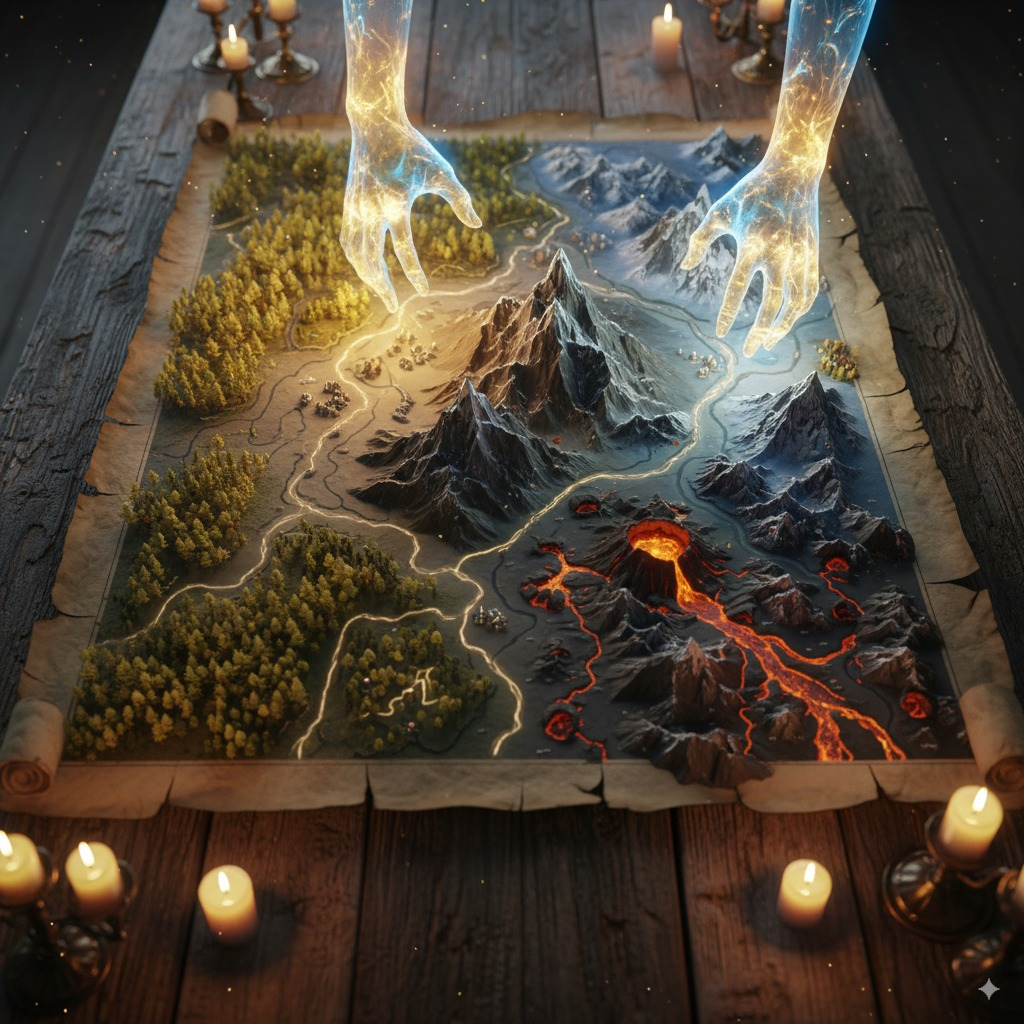
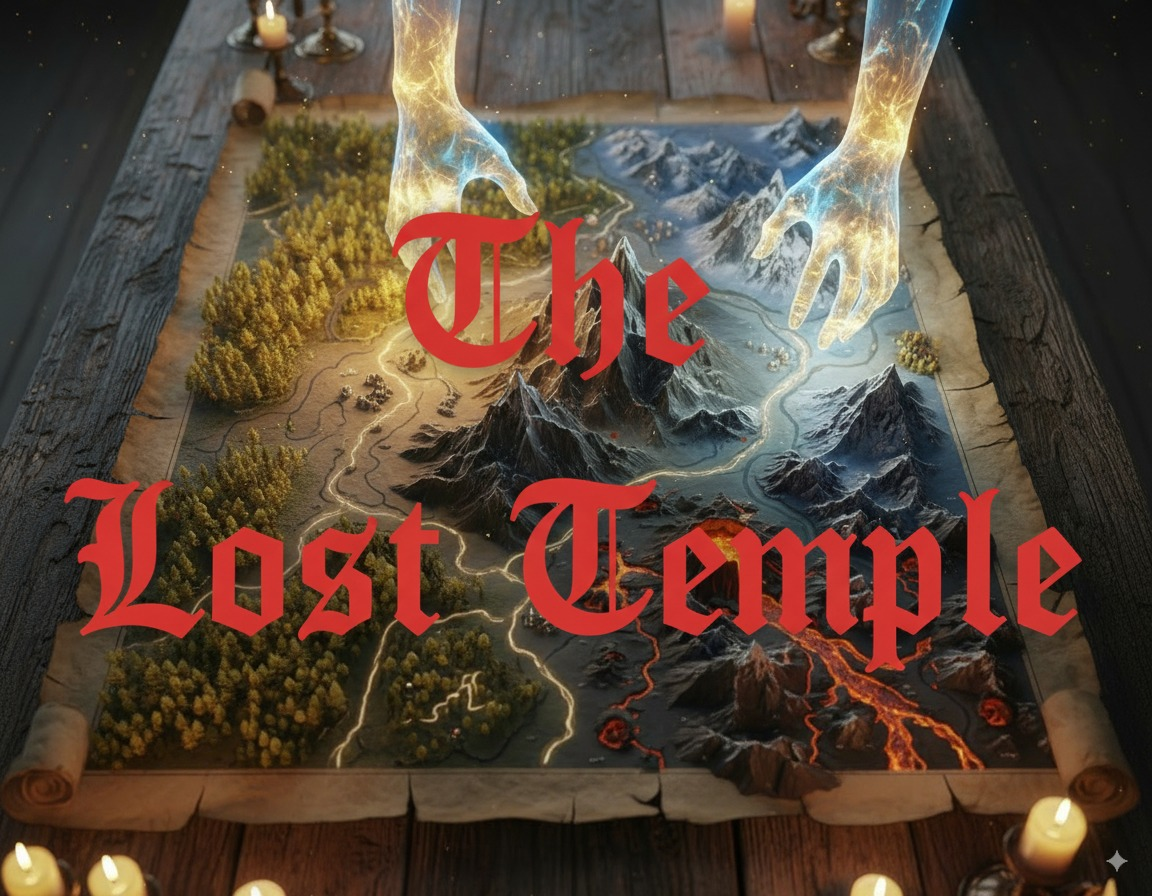
updating campaign cards, adding images

diff --git a/src/components/campaign-list/campaign-card.tsx b/src/components/campaign-list/campaign-card.tsx
@@ -29,6 +29,7 @@ interface CampaignCardProps {
     tone: string | null;
   };
   isFeatured?: boolean;
+  coverImage?: string;
 }
 
 /**
@@ -36,7 +37,7 @@ interface CampaignCardProps {
  * Displays individual campaign information in a card format
  * @param campaign - Campaign data to display
  */
-const CampaignCard = ({ campaign, isFeatured = false }: CampaignCardProps) => {
+const CampaignCard = ({ campaign, isFeatured = false, coverImage }: CampaignCardProps) => {
   const navigate = useNavigate();
   const { toast } = useToast();
   const queryClient = useQueryClient();
@@ -84,6 +85,8 @@ const CampaignCard = ({ campaign, isFeatured = false }: CampaignCardProps) => {
     }
   };
 
+  const resolvedImage = coverImage ? new URL(coverImage, import.meta.url).href : (isFeatured ? new URL('/card-background.jpeg', import.meta.url).href : undefined);
+
   return (
     <Card
       className={"campaign-card group relative overflow-hidden border border-border/30 shadow-md transition-all duration-300 hover:shadow-xl " + (isFeatured ? 'featured-card' : '')}
@@ -93,7 +96,7 @@ const CampaignCard = ({ campaign, isFeatured = false }: CampaignCardProps) => {
       <div
         className={"campaign-hero flex items-end p-4 cursor-pointer " + (isFeatured ? 'featured' : '')}
         onClick={() => navigate(`/campaign/${campaign.id}`)}
-        style={isFeatured ? { backgroundImage: `url(${new URL('/card-background.jpeg', import.meta.url).href})` } : undefined}
+  style={resolvedImage ? { backgroundImage: `url(${resolvedImage})` } : undefined}
       >
         {isFeatured && (
           <>

diff --git a/src/components/campaign-list/campaign-list.tsx b/src/components/campaign-list/campaign-list.tsx
@@ -107,11 +107,31 @@ const CampaignList = () => {
   }
 
   // Render campaign grid
+  // map known campaign names to public cover images
+  const getCoverFor = (name: string | null) => {
+    if (!name) return undefined;
+    const n = name.toLowerCase();
+  if (n.includes('kleetus') || n.includes('carnival')) return '/carnival.jpeg';
+  if (n.includes('erebo') || n.includes('new erebo')) return '/erebo.jpeg';
+  if (n.includes('tenebrous')) return '/tenebrous.jpeg';
+    return undefined;
+  };
+
   return (
     <div className="grid grid-cols-1 md:grid-cols-2 lg:grid-cols-3 gap-6">
-      {campaigns.map((campaign, i) => (
-        <CampaignCard key={campaign.id} campaign={campaign} isFeatured={i === 0} />
-      ))}
+      {campaigns.map((campaign, i) => {
+        // prefer explicit mapping; fall back to default test image for the first card
+        const mapped = getCoverFor(campaign.name);
+        const cover = mapped ?? (i === 0 ? '/card-background.jpeg' : undefined);
+        return (
+          <CampaignCard
+            key={campaign.id}
+            campaign={campaign}
+            isFeatured={Boolean(cover)}
+            coverImage={cover}
+          />
+        );
+      })}
     </div>
   );
 };
